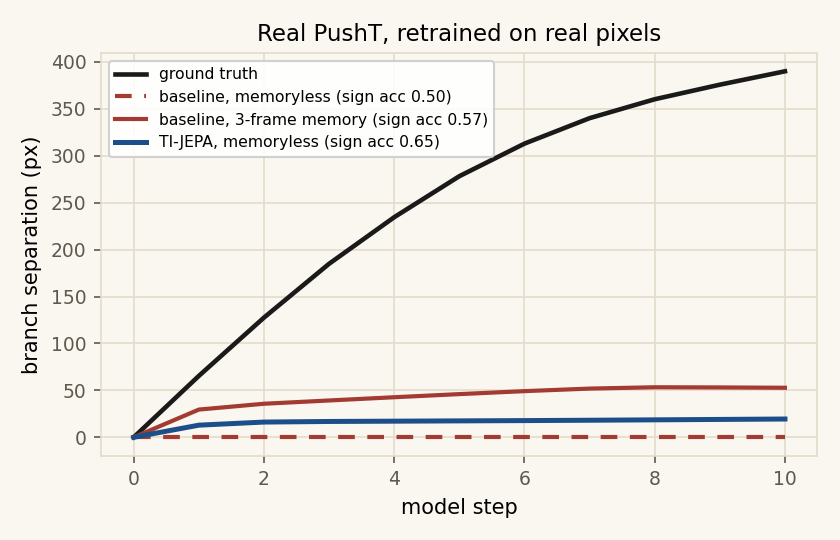
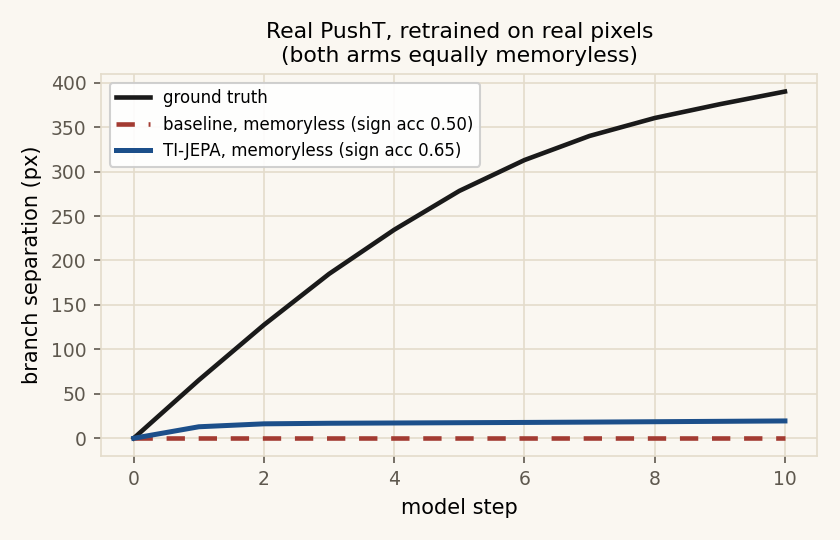
Fold PushT/Reacher into the Experiments tab picker instead of a separate section; fix the PushT chart to compare equally-memoryless arms only (plotting the 3x-memory baseline alongside made TI-JEPA look worse, not better)

Changed region(s): [[0.031, 0.0296, 0.9905, 0.7111], [0.0619, 0.6815, 0.9595, 0.8296]]

diff --git a/site.js b/site.js
@@ -2,7 +2,6 @@ const I18N = {
   en: {
     navCase: "A real case",
     navExp: "Experiments",
-    navReal: "Real benchmarks",
     navFuture: "What follows",
     lang: "中文",
     kicker: "TI-JEPA · world models",
@@ -17,13 +16,12 @@ const I18N = {
     caseSub: "This is one pair from the trained Pendulum models, the same construction as the paper’s kill experiment. At the first step the two renderings match. The memoryless model then emits one rollout for both. TI-JEPA follows the two directions the physics actually takes.",
     expKicker: "02 · Every environment",
     expTitle: "The same test, three physical systems.",
-    expSub: "Choose an environment. Each player is another real pair from that environment’s trained models: ground truth, the memoryless baseline, and TI-JEPA.",
-    realKicker: "03 · Two real benchmarks",
-    realTitle: "Nobody built these for this paper.",
-    realSub: "InertiaBall, Pendulum, and CartPole are built so velocity isn’t optional. PushT and Reacher are real benchmarks that already have official pretrained checkpoints. We retrained the memoryless baseline and TI-JEPA on real pixels from both, same budget, and reran the exact same kill experiment.",
-    pushtCap: "Real pymunk physics, real pixels. The memoryless baseline sits flat at exactly zero branch separation, as Corollary 1 guarantees. TI-JEPA, still memoryless, reaches 0.65 velocity-sign accuracy against 0.50 for a baseline given three times the history.",
-    reacherCap: "Trained from scratch at official ViT-Tiny + AdaLN scale on real dm_control Reacher photographs. TI-JEPA’s branch separation grows past ground truth; the equally-memoryless baseline never leaves the floor. 2.17 vs 0.057 — 38×, the largest margin in the paper.",
-    futKicker: "04 · What this changes",
+    expSub: "Choose an environment. Each player is another real pair from that environment’s trained models: ground truth, the memoryless baseline, and TI-JEPA. The last two are real official benchmarks, retrained on real pixels, not built for this paper.",
+    pushtTitle: "Real PushT, retrained on real pixels.",
+    pushtCap: "Real pymunk physics, real pixels, both arms equally memoryless. The baseline sits flat at exactly zero branch separation, as Corollary 1 guarantees. TI-JEPA reaches 0.65 velocity-sign accuracy against 0.50 — a visible split in a comparison with no memory advantage on either side.",
+    reacherTitle: "Real dm_control Reacher, official scale.",
+    reacherCap: "Trained from scratch at official ViT-Tiny + AdaLN scale on real Reacher photographs. TI-JEPA’s branch separation grows past ground truth; a baseline given three times the history still never leaves the floor. 2.17 vs 0.057 — 38×, the largest margin in the paper.",
+    futKicker: "03 · What this changes",
     futTitle: "A world model can be asked to stop.",
     f1t: "The target is the state",
     f1b: "Whatever the loss predicts is what later planning is allowed to know. A next-frame embedding leaves velocity outside that state. Pose and motion, predicted together, put it back in.",
@@ -51,7 +49,6 @@ const I18N = {
   zh: {
     navCase: "真实例子",
     navExp: "每个实验",
-    navReal: "真实基准测试",
     navFuture: "往后",
     lang: "English",
     kicker: "TI-JEPA · 世界模型",
@@ -66,13 +63,12 @@ const I18N = {
     caseSub: "这是训练好的 Pendulum 模型上的一对样本，构造和论文里的 kill experiment 相同。第一步两幅渲染完全一样。无记忆模型随后对两边给出同一条 rollout。TI-JEPA 跟着物理真正走的两个方向。",
     expKicker: "02 · 每个环境",
     expTitle: "同一个检验，三套物理系统。",
-    expSub: "选一个环境。每个播放器都是该环境已训练模型上的另一对真实样本：真实轨迹、无记忆基线、TI-JEPA。",
-    realKicker: "03 · 两个真实基准测试",
-    realTitle: "这两个不是为这篇论文搭的。",
-    realSub: "InertiaBall、Pendulum、CartPole 是特意设计成速度不可或缺的环境。PushT 和 Reacher 是已经有官方预训练权重的真实基准测试。我们在两者的真实像素上，用同样的预算重新训练了无记忆基线和 TI-JEPA，跑了完全相同的 kill experiment。",
-    pushtCap: "真实 pymunk 物理，真实像素。无记忆基线的分支分离正好恒为零，这是 Corollary 1 的保证。TI-JEPA 同样无记忆，速度符号准确率达到 0.65，对比拥有三倍历史窗口的基线的 0.50。",
-    reacherCap: "在真实 dm_control Reacher 照片上，以官方 ViT-Tiny + AdaLN 规模从零训练。TI-JEPA 的分支分离曲线超过了真实轨迹；同样无记忆的基线始终没有离开地板。2.17 对 0.057，38 倍，是全文最大的差距。",
-    futKicker: "04 · 这件事改变什么",
+    expSub: "选一个环境。每个播放器都是该环境已训练模型上的另一对真实样本：真实轨迹、无记忆基线、TI-JEPA。后两个是真实的官方基准测试，在真实像素上重新训练，不是为这篇论文搭的环境。",
+    pushtTitle: "真实 PushT，在真实像素上重训。",
+    pushtCap: "真实 pymunk 物理，真实像素，两个模型都同样无记忆。基线的分支分离正好恒为零，这是 Corollary 1 的保证。TI-JEPA 的速度符号准确率达到 0.65，对比 0.50——在一个双方都没有记忆优势的公平对比里，分得很开。",
+    reacherTitle: "真实 dm_control Reacher，官方规模。",
+    reacherCap: "在真实 Reacher 照片上，以官方 ViT-Tiny + AdaLN 规模从零训练。TI-JEPA 的分支分离曲线超过了真实轨迹；给了三倍历史窗口的基线依然没有离开地板。2.17 对 0.057，38 倍，是全文最大的差距。",
+    futKicker: "03 · 这件事改变什么",
     futTitle: "世界模型可以被要求停下来。",
     f1t: "预测目标就是状态",
     f1b: "损失预测什么，后面的规划就只能知道什么。下一帧嵌入把速度留在了这个状态外面。位姿和运动一起预测，就把它放回去了。",
@@ -100,8 +96,13 @@ const I18N = {
 };
 
 const ENV_NAME = {
-  en: { pendulum: "Pendulum", cartpole: "CartPole", inertia_ball: "InertiaBall" },
-  zh: { pendulum: "Pendulum", cartpole: "CartPole", inertia_ball: "InertiaBall" },
+  en: { pendulum: "Pendulum", cartpole: "CartPole", inertia_ball: "InertiaBall", pusht_real: "PushT (real)", reacher_real: "Reacher (real)" },
+  zh: { pendulum: "Pendulum", cartpole: "CartPole", inertia_ball: "InertiaBall", pusht_real: "PushT（真实）", reacher_real: "Reacher（真实）" },
+};
+
+const REAL_BENCH = {
+  pusht_real: { gif: "assets/pusht_real_kill_demo.gif", chart: "assets/pusht_real_branch_sep_chart.png", titleKey: "pushtTitle", capKey: "pushtCap" },
+  reacher_real: { gif: "assets/reacher_real_kill_demo.gif", chart: "assets/reacher_real_branch_sep_chart.png", titleKey: "reacherTitle", capKey: "reacherCap" },
 };
 
 let LANG = "en";
@@ -290,9 +291,29 @@ function mountPlayer(host, example) {
   return api;
 }
 
+function mountRealBenchmark(host, id) {
+  const info = REAL_BENCH[id];
+  host.innerHTML = `
+    <div class="panel">
+      <div class="frames">
+        <div class="frame-card"><img class="shot" src="${info.gif}" alt="" /><p class="rb-title"></p></div>
+        <div class="frame-card" style="background:#faf7f1"><img class="shot" src="${info.chart}" alt="" /></div>
+      </div>
+      <p class="note rb-cap"></p>
+    </div>`;
+  function refreshCopy() {
+    host.querySelector(".rb-title").textContent = t(info.titleKey);
+    host.querySelector(".rb-cap").textContent = t(info.capKey);
+  }
+  refreshCopy();
+  const api = { refreshCopy, stop() {} };
+  players.push(api);
+  return api;
+}
+
 function setupPicker() {
   const tabs = document.getElementById("env-tabs");
-  const order = ["pendulum", "cartpole", "inertia_ball"];
+  const order = ["pendulum", "cartpole", "inertia_ball", "pusht_real", "reacher_real"];
   order.forEach((id) => {
     const b = document.createElement("button");
     b.className = "btn";
@@ -304,7 +325,11 @@ function setupPicker() {
       const host = document.getElementById("picker");
       players.slice(1).forEach((p) => p.stop());
       players.length = 1;
-      mountPlayer(host, DATA[id]);
+      if (REAL_BENCH[id]) {
+        mountRealBenchmark(host, id);
+      } else {
+        mountPlayer(host, DATA[id]);
+      }
     });
     tabs.appendChild(b);
   });

diff --git a/index.html b/index.html
@@ -18,7 +18,6 @@
       <nav class="nav-links">
         <a href="#case" data-i18n="navCase">A real case</a>
         <a href="#experiments" data-i18n="navExp">Experiments</a>
-        <a href="#real-benchmarks" data-i18n="navReal">Real benchmarks</a>
         <a href="#future" data-i18n="navFuture">What follows</a>
       </nav>
       <button class="anon" id="lang" type="button">中文</button>
@@ -51,35 +50,15 @@
       <div class="wrap">
         <p class="sec-label" data-i18n="expKicker">02 · Every environment</p>
         <h2 data-i18n="expTitle">The same test, three physical systems.</h2>
-        <p class="sub" data-i18n="expSub">Choose an environment. Each player is another real pair from that environment’s trained models: ground truth, the memoryless baseline, and TI-JEPA.</p>
+        <p class="sub" data-i18n="expSub">Choose an environment. Each player is another real pair from that environment’s trained models: ground truth, the memoryless baseline, and TI-JEPA. The last two are real official benchmarks, retrained on real pixels, not built for this paper.</p>
         <div class="tabs" id="env-tabs" role="tablist"></div>
         <div id="picker"></div>
       </div>
     </section>
 
-    <section id="real-benchmarks">
-      <div class="wrap">
-        <p class="sec-label" data-i18n="realKicker">03 · Two real benchmarks</p>
-        <h2 data-i18n="realTitle">Nobody built these for this paper.</h2>
-        <p class="sub" data-i18n="realSub">InertiaBall, Pendulum, and CartPole are built so velocity isn't optional. PushT and Reacher are real benchmarks that already have official pretrained checkpoints. We retrained the memoryless baseline and TI-JEPA on real pixels from both, same budget, and reran the exact same kill experiment.</p>
-        <div class="bench-grid">
-          <figure class="figure">
-            <img src="assets/pusht_real_kill_demo.gif" alt="Real PushT, identical frame at t=0, opposite initial velocity" />
-            <img src="assets/pusht_real_branch_sep_chart.png" alt="Real PushT branch-separation chart" style="margin-top:10px" />
-            <figcaption data-i18n="pushtCap">Real pymunk physics, real pixels. The memoryless baseline sits flat at exactly zero branch separation, as Corollary 1 guarantees. TI-JEPA, still memoryless, reaches 0.65 velocity-sign accuracy against 0.50 for a baseline given three times the history.</figcaption>
-          </figure>
-          <figure class="figure">
-            <img src="assets/reacher_real_kill_demo.gif" alt="Real dm_control Reacher, identical frame at t=0, opposite initial joint velocity" />
-            <img src="assets/reacher_real_branch_sep_chart.png" alt="Real Reacher branch-separation chart" style="margin-top:10px" />
-            <figcaption data-i18n="reacherCap">Trained from scratch at official ViT-Tiny + AdaLN scale on real dm_control Reacher photographs. TI-JEPA's branch separation grows past ground truth; the equally-memoryless baseline never leaves the floor. 2.17 vs 0.057 — 38×, the largest margin in the paper.</figcaption>
-          </figure>
-        </div>
-      </div>
-    </section>
-
     <section id="future">
       <div class="wrap">
-        <p class="sec-label" data-i18n="futKicker">04 · What this changes</p>
+        <p class="sec-label" data-i18n="futKicker">03 · What this changes</p>
         <h2 data-i18n="futTitle">A world model can be asked to stop.</h2>
         <div class="cards">
           <article class="card">

diff --git a/styles.css b/styles.css
@@ -143,7 +143,6 @@ canvas.plan { width: 100%; height: 180px; display: block; }
 .env-stat b { font-family: var(--num); font-size: 22px; font-weight: 500; }
 .figure { background: #fff; border: 1px solid var(--line); border-radius: 16px; padding: 8px; margin: 0; }
 .figure figcaption { font-size: 13px; color: var(--muted); padding: 8px 6px 4px; }
-.bench-grid { display: grid; grid-template-columns: repeat(2, 1fr); gap: 16px; }
 
 .table-wrap { overflow-x: auto; border: 1px solid var(--line); border-radius: 16px; background: #fff; }
 table { width: 100%; border-collapse: collapse; font-size: 14px; }
@@ -159,7 +158,7 @@ footer {
 }
 
 @media (max-width: 900px) {
-  .stats, .cards, .plan-grid, .meters, .demo-grid, .split, .env-layout, .limits, .bench-grid { grid-template-columns: 1fr; }
+  .stats, .cards, .plan-grid, .meters, .demo-grid, .split, .env-layout, .limits { grid-template-columns: 1fr; }
   .nav-links { display: none; }
   .hero { padding-top: 36px; }
 }
